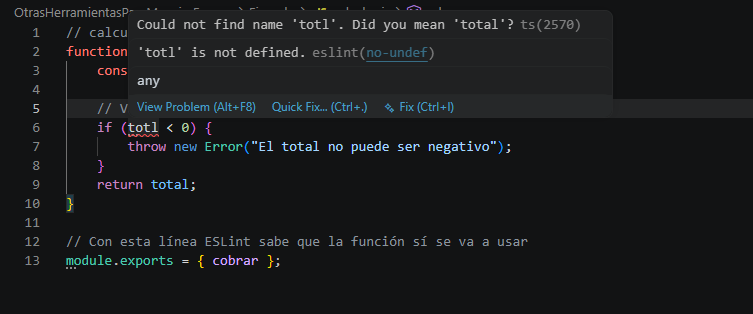
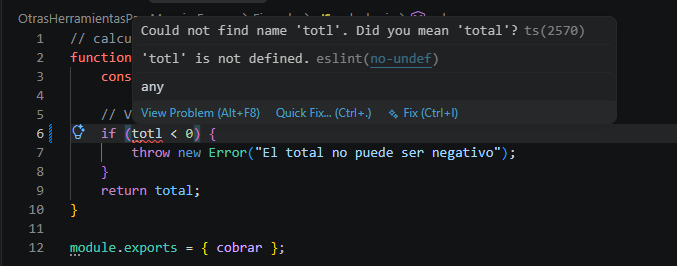
Correcciones

diff --git a/OtrasHerramientasParaManejarErrores/Ejemplo/README.md b/OtrasHerramientasParaManejarErrores/Ejemplo/README.md
@@ -19,6 +19,7 @@ Gracias a ESLint, no tuve que esperar a ejecutar el programa o abrir el navegado
 Creé un archivo `calculos.test.js` para asegurar que mi función procesara los descuentos correctamente y, más importante aún, que fallara cuando debía hacerlo. Hice dos escenarios:
 1. **El camino feliz:** Que un descuento normal del 10% se aplique bien.
 2. **Forzando un error:** Que si envío un descuento ilógico (como 200%), la función detecte el número negativo y lance una excepción ("El total no puede ser negativo").
+![Código para probar Jest](Imagenes/JestCode.png) 
 
 Al ejecutar `npm test`, Jest corrió ambos escenarios de forma automática y confirmó que las reglas de mi código estaban bien establecidas, pasando ambas pruebas exitosamente.
 
@@ -39,7 +40,7 @@ Como era de esperarse, la página detuvo su ejecución por el error matemático:
 
 ![Error forzado en el navegador](Imagenes/SentryError.png)
 
-Pero lo interesante pasó detrás de escena. Inmediatamente **Sentry** atrapó la excepción, me envió un correo de alerta y registró el incidente en su panel web. Ahí pude ver exactamente que falló, qué navegador lo provocó y todo el contexto necesario para solucionarlo.
+Pero lo interesante pasó despues. Inmediatamente **Sentry** atrapó la excepción, me envió un correo de alerta y registró el incidente en su panel web. Ahí pude ver exactamente que falló, qué navegador lo provocó y todo el contexto necesario para solucionarlo.
 
 ![Sentry capturando el error en el panel](Imagenes/SentryWeb2.png)
 
